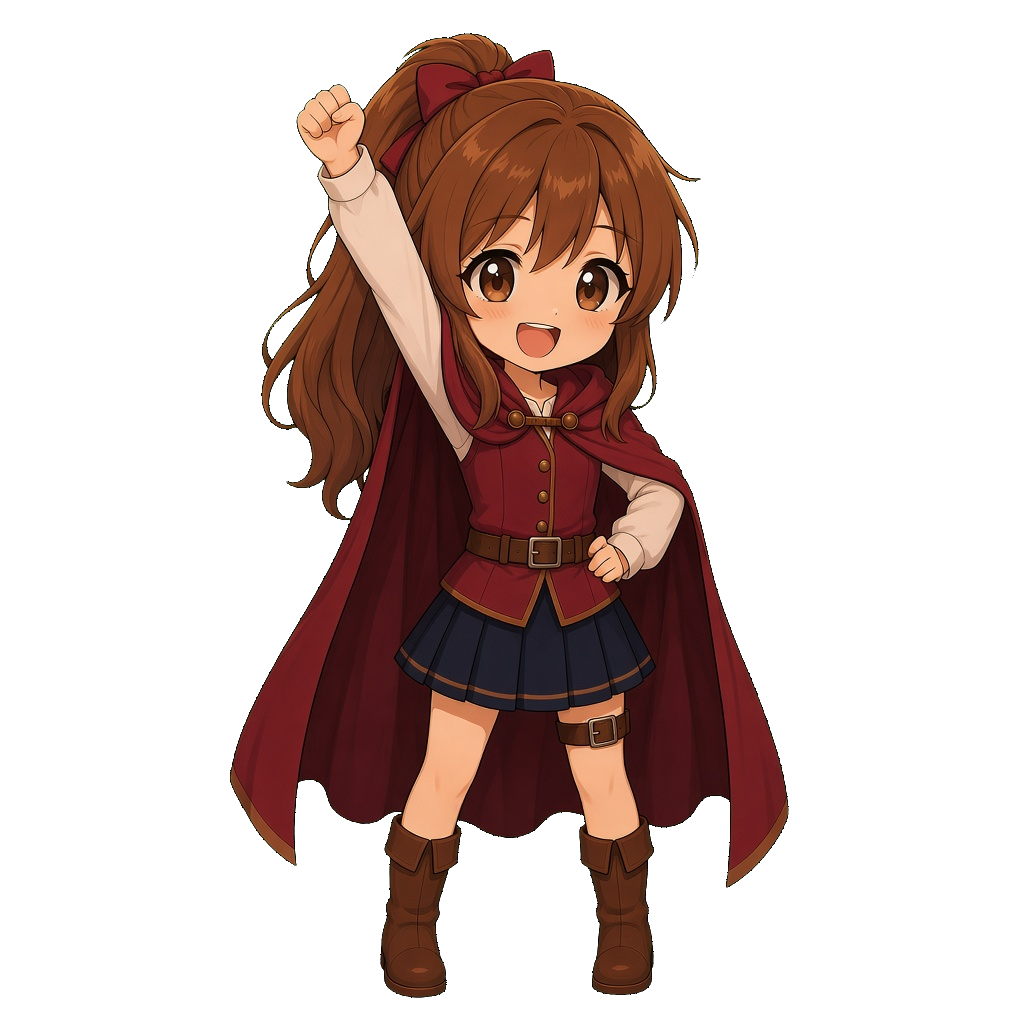
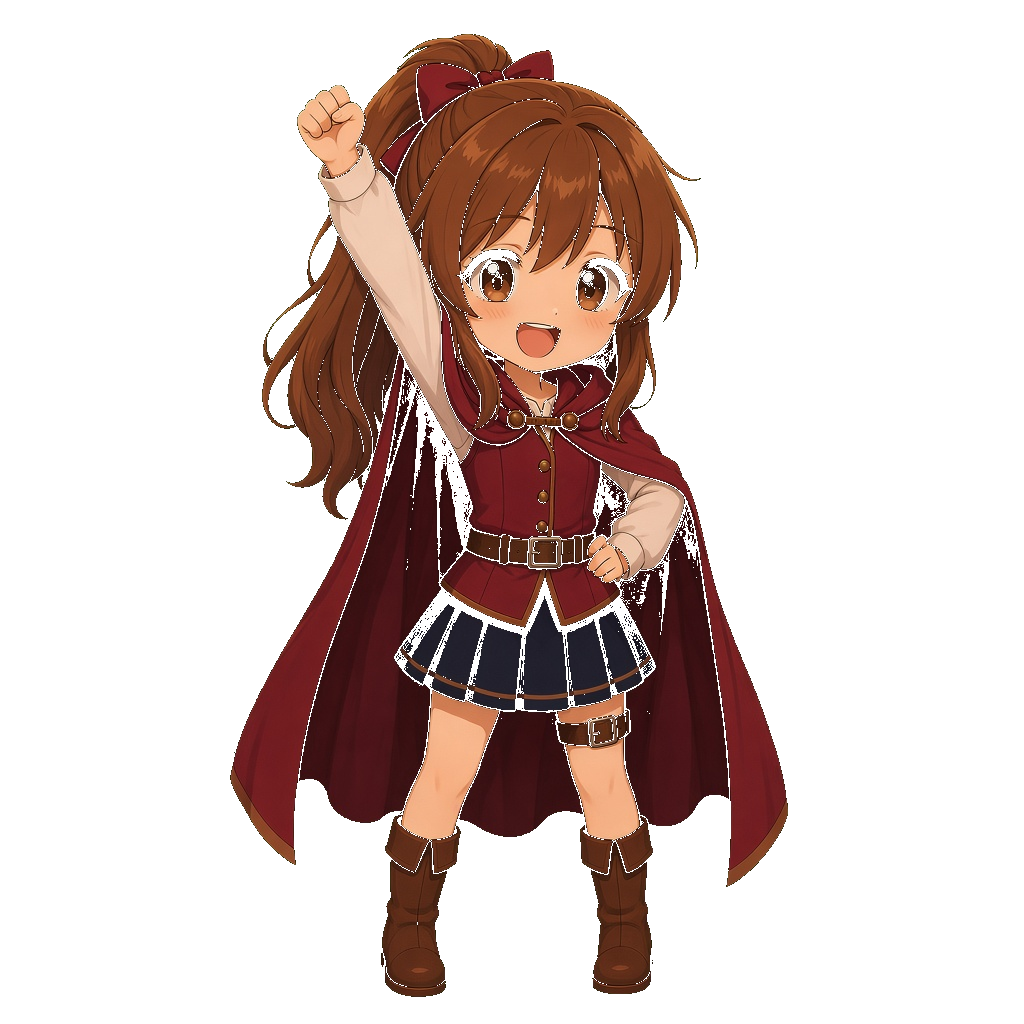
カードリストに、アタックボスの棘を右へずらした見本を出す。ジョブコマとエンチャントの絵も試作に合わせる。

diff --git a/index.html b/index.html
@@ -2079,6 +2079,8 @@
     .style-genres figure { margin: 0; max-width: none; }
     .style-genres figcaption { text-align: center; font-size: 12px; }
     .style-genres img.style-master { width: 100%; height: auto; aspect-ratio: 3 / 4; object-fit: fill; display: block; }
+    .album-top .trial-head { margin: 14px 0 6px; text-align: center; font-size: 14px; letter-spacing: 0.08em; }
+    .style-genres.trial { grid-template-columns: repeat(5, minmax(0, 1fr)); }
     .album-top { min-width: 0; }
     .album-top .card.preview { width: 100%; }
     .album-screen .panel {
@@ -10267,8 +10269,8 @@
         name: "戦士",
         blurb: "剣と盾を巧みに操る女の戦士。敵の攻撃のタイミングを見極め、パリィで受け流す。崩れた隙に、強力な一撃を入れる。",
         stand: "girl-front-v2.png?v=1",
-        chibi: "job-girl-hands-down.png?v=1",
-        chibiHot: "job-girl-v2.png?v=1",
+        chibi: "job-girl-hands-down.png?v=2",
+        chibiHot: "job-girl-v2.png?v=2",
         action: "girl-action.jpg?v=6",
         battle: "girl-battle-v42.png?v=1",
         battleRatio: "3 / 4",
@@ -14458,9 +14460,9 @@
     const ENCHANT_ELEMS = ["fire", "water", "light", "dark"];
 
     function enchantFace(elem) {
-      if (elem === "water") return { name: "水", sub: "DEF+2", image: "enchant-water.svg?v=1" };
-      if (elem === "light") return { name: "光", sub: "マナ-1", image: "enchant-light.svg?v=1" };
-      if (elem === "dark") return { name: "闇", sub: "キーワード", image: "enchant-dark.svg?v=1" };
+      if (elem === "water") return { name: "水", sub: "DEF+2", image: "enchant-water.jpg?v=1" };
+      if (elem === "light") return { name: "光", sub: "マナ-1", image: "enchant-light.jpg?v=1" };
+      if (elem === "dark") return { name: "闇", sub: "キーワード", image: "enchant-dark.jpg?v=1" };
       return { name: "火", sub: "ATK+2", image: "enchant-fire.jpg?v=2" };
     }
 
@@ -16945,8 +16947,8 @@
               ${sheetFig("girl-action.jpg?v=6", "戦士の一枚絵", "land-ref", "span-2")}
             </div>
             <div class="ref-grid">
-              ${sheetFig("job-girl-hands-down.png?v=1", "戦士の選択コマ（手を下ろす）", "cut-ref")}
-              ${sheetFig("job-girl-v2.png?v=1", "戦士の選択コマ（手を上げる）", "cut-ref")}
+              ${sheetFig("job-girl-hands-down.png?v=2", "戦士の選択コマ（手を下ろす）", "cut-ref")}
+              ${sheetFig("job-girl-v2.png?v=2", "戦士の選択コマ（手を上げる）", "cut-ref")}
             </div>
             <h3>装備</h3>
             ${sheetGearInline()}
@@ -17047,6 +17049,8 @@
               <section>
                 <h3>カードスタイル</h3>
                 ${cardStyleColumns("album")}
+                <h4 class="trial-head">アタック ボス　棘を右へ</h4>
+                <div class="style-genres trial">${cardStyleSheet([["style-boss-mana-right", "ボス 棘右", "frame-attack-boss-mana-right.png?v=1"]])}</div>
               </section>
             </div>`;
       const unadoptedBody = albumTab === "未採用"
@@ -17492,6 +17496,7 @@
       ["style-green-over-silver", "アイテム ★★", "frame-green-over-silver.png?v=1"],
       ["style-green-over-gold", "アイテム ★★★", "frame-green-over-gold.png?v=4"],
       ["style-green-over-black", "アイテム ボス", "frame-green-over-black.png?v=1"],
+      ["style-boss-mana-right", "ボス 棘右", "frame-attack-boss-mana-right.png?v=1"],
     ];
     function styleLabel(id, name) {
       return name;
